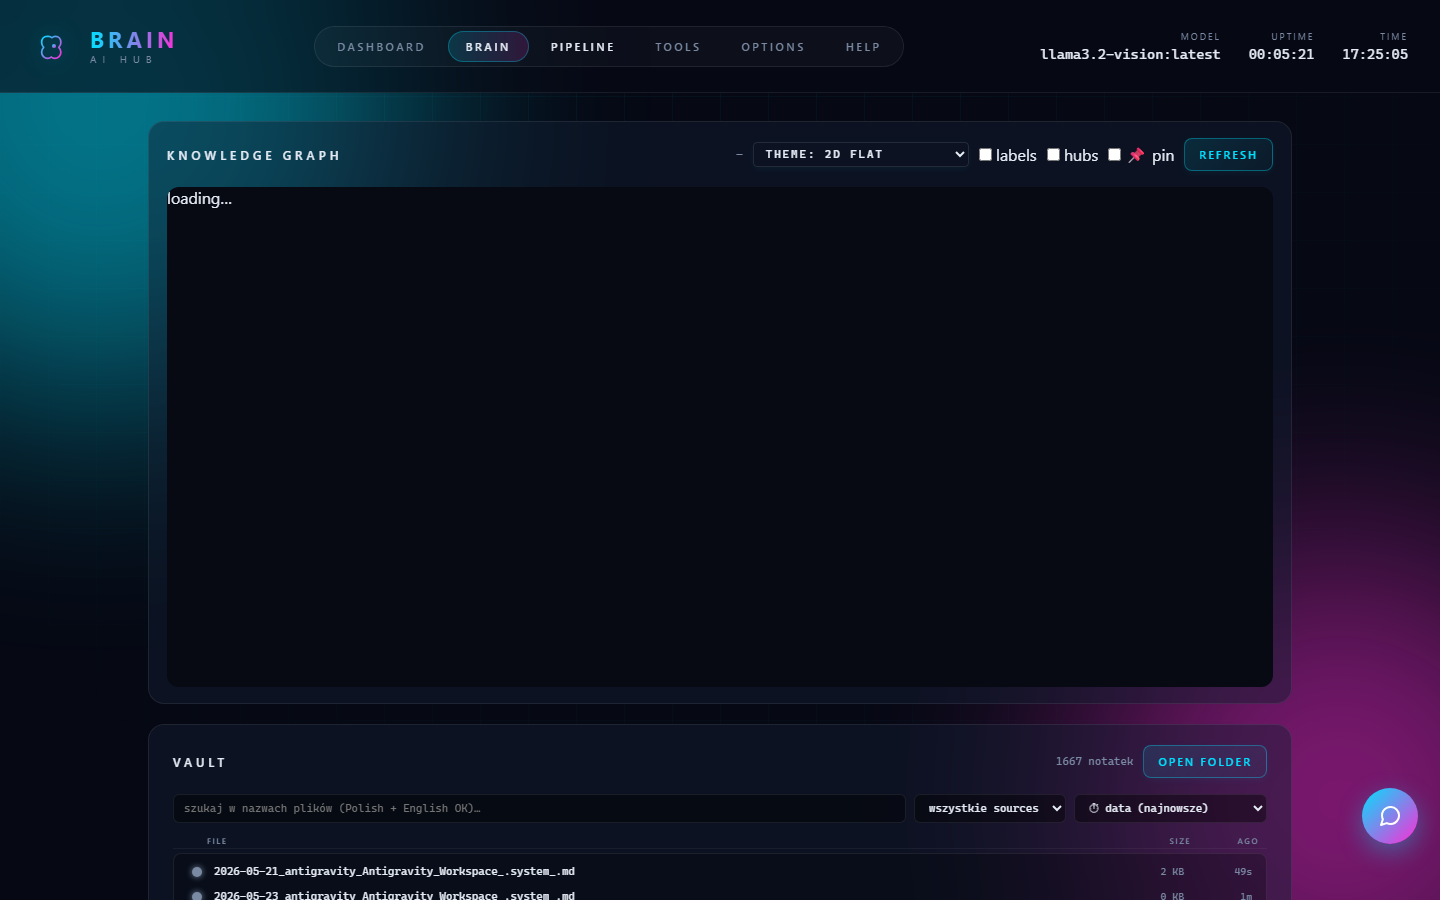
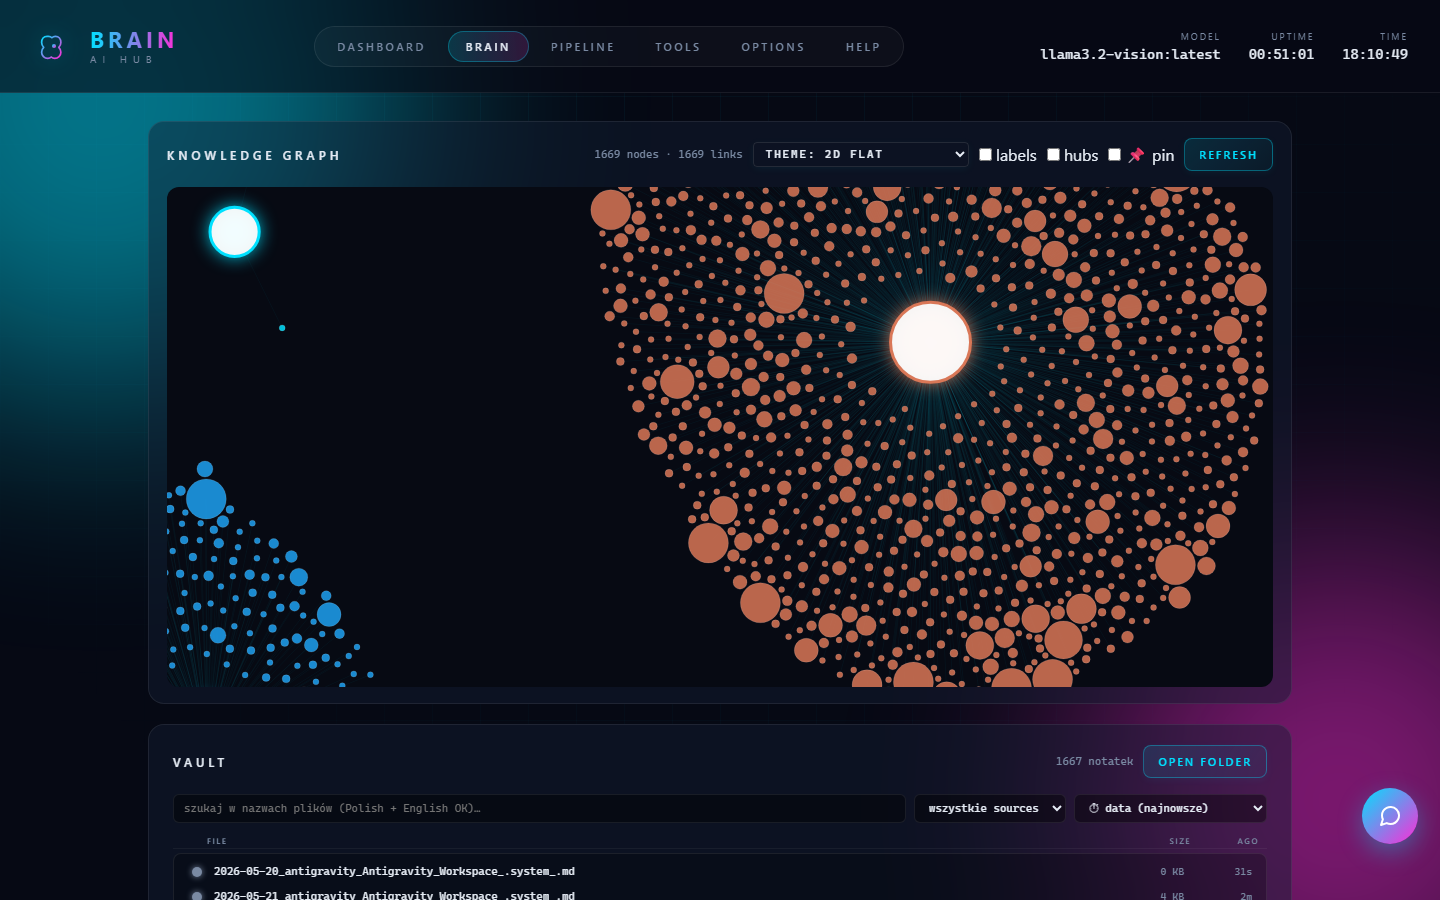
Fix Brain tab screenshot: wait for knowledge graph to render.

diff --git a/scripts/capture_screenshots.py b/scripts/capture_screenshots.py
@@ -25,7 +25,16 @@ def capture() -> None:
         page.screenshot(path=str(OUT / "dashboard-home.png"), full_page=False)
 
         page.click('button.tab[data-view="brain"]')
-        page.wait_for_timeout(1500)
+        # Knowledge graph fetches /api/graph and renders canvas — can take 10–60s on large vaults
+        page.wait_for_function(
+            """() => {
+              const stats = document.querySelector('#graph-stats');
+              if (stats && /\\d+\\s+nodes/.test(stats.textContent || '')) return true;
+              return !!document.querySelector('#graph-canvas canvas');
+            }""",
+            timeout=120000,
+        )
+        page.wait_for_timeout(2500)
         page.screenshot(path=str(OUT / "dashboard-brain.png"), full_page=False)
 
         page.click('button.tab[data-view="pipeline"]')